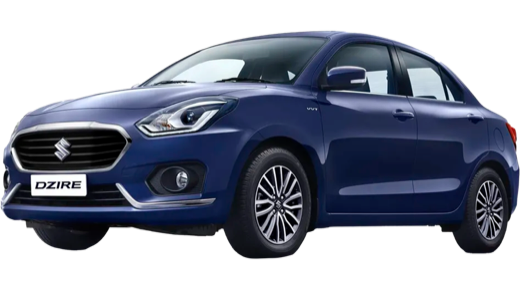
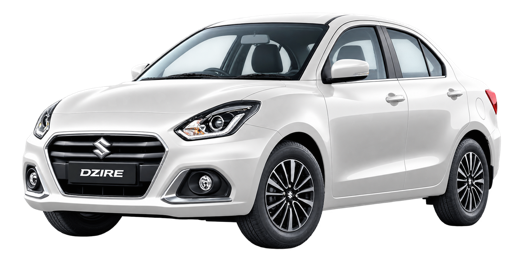
feat(site): la Dzire blanche remplace la bleue dans le héros
Sur l'orange dominant, la voiture bleu nuit se lisait mal ; la blanche
détourée se détache nettement du dégradé.

Deux ajustements que la nouvelle photo impose :
- Le cadre passe de 520×292 à 520×260 (2:1). Les attributs `width`/`height`
  du markup suivent : laissés à l'ancienne valeur, ils réintroduisaient le
  décalage de mise en page que le reste de la page évite.
- La pastille « Un lot à gagner » remonte au-dessus du toit (`-top-8 right-0`).
  La voiture est plus haute dans son cadre en 2:1 et la pastille recouvrait le
  pare-brise et le montant avant.

L'ombre portée est conservée : sur la carrosserie blanche elle lit comme une
ombre au sol, pas comme une salissure.

Claude-Session: https://claude.ai/code/session_01HPHgi9SKF6LhV1MXhqtyZb

diff --git a/resources/views/site/home.blade.php b/resources/views/site/home.blade.php
@@ -98,13 +98,16 @@
                                         {{ Vite::asset('resources/images/site/suzuki-dzire@2x.webp') }} 1040w"
                                 sizes="(min-width: 1024px) 520px, 100vw">
                         <img src="{{ Vite::asset('resources/images/site/suzuki-dzire.png') }}"
-                             alt="Suzuki Dzire du parc AT Confort Plus"
-                             width="520" height="292"
+                             alt="Suzuki Dzire blanche du parc AT Confort Plus"
+                             width="520" height="260"
                              fetchpriority="high" decoding="async"
                              class="mx-auto w-[min(100%,520px)] drop-shadow-[0_24px_30px_rgb(0_0_0/0.35)]">
                     </picture>
 
-                    <div class="absolute -top-1.5 right-1 flex rotate-3 items-center gap-2.5 rounded-[14px] bg-white px-3.5 py-2 pl-2 text-[13px] font-bold leading-tight text-ink shadow-lift">
+                    {{-- Remontée au-dessus du toit : la nouvelle photo, en 2:1, place la
+                         voiture plus haut dans son cadre et la pastille recouvrait
+                         le pare-brise et le montant avant. --}}
+                    <div class="absolute -top-8 right-0 flex rotate-3 items-center gap-2.5 rounded-[14px] bg-white px-3.5 py-2 pl-2 text-[13px] font-bold leading-tight text-ink shadow-lift">
                         <picture>
                             <source type="image/webp" srcset="{{ Vite::asset('resources/images/site/lots/televiseur.webp') }}">
                             <img src="{{ Vite::asset('resources/images/site/lots/televiseur.jpg') }}"
